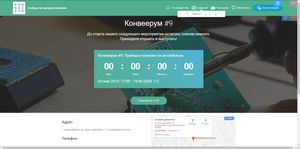
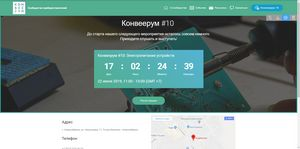
10_2

diff --git a/email.html b/email.html
@@ -62,7 +62,7 @@
     </nav>
 </section>
 
-<section class="engine"><a href="https://mobirise.info/s">free bootstrap theme</a></section><section class="mbr-section form3 cid-rgyApg8B9A mbr-parallax-background" id="form3-p">
+<section class="engine"><a href="https://mobirise.info/e">how to make your own website for free</a></section><section class="mbr-section form3 cid-rgyApg8B9A mbr-parallax-background" id="form3-p">
 
     
 
@@ -80,7 +80,7 @@
         <div class="row py-2 justify-content-center">
             <div class="col-12 col-lg-6  col-md-8 " data-form-type="formoid">
                 <div data-form-alert="" hidden="">Спасибо! До встречи на Конвеерум!</div>
[2 lines of base64/hex data omitted]
                     <div class="mbr-subscribe input-group">
                         <input class="form-control" type="email" name="email" placeholder="Укажите Ваш e-mail" data-form-field="Email" required="" id="email-form3-p">
                         <span class="input-group-btn"><button href="" type="submit" class="btn  btn-secondary display-4">ПОДПИСАТЬСЯ</button></span>

diff --git a/index.html b/index.html
@@ -62,7 +62,7 @@
     </nav>
 </section>
 
-<section class="engine"><a href="https://mobirise.info/f">easy website builder</a></section><section class="countdown2 cid-rgyDTvxJ4Z" id="countdown2-t">
+<section class="engine"><a href="https://mobirise.info/t">amp templates</a></section><section class="countdown2 cid-rgyDTvxJ4Z" id="countdown2-t">
 
     
 
@@ -91,7 +91,7 @@
         </div>
 
         <div class="media-container-row pt-5">
-            <div class="mbr-section-btn align-center"><a class="btn btn-secondary display-4" href="https://leader-id.ru/event/22186/" target="_blank">Регистрация</a></div>
+            <div class="mbr-section-btn align-center"><a class="btn btn-secondary display-4" href="https://leader-id.ru/event/22186/" target="_blank">Регистрация</a> <a class="btn btn-primary display-4" href="mailto:info@konveerum.ru">Хочу выступить</a></div>
         </div>
     </div>
 </section>
@@ -145,7 +145,7 @@
     <div class="container">
         <div class="media-container-row title">
             <div class="col-12 col-md-8">
-                <div class="mbr-section-btn align-center"><a class="btn btn-secondary display-4" href="https://leader-id.ru/event/22186/" target="_blank">Регистрация</a></div>
+                <div class="mbr-section-btn align-center"><a class="btn btn-secondary display-4" href="https://leader-id.ru/event/22186/" target="_blank">Регистрация</a> <a class="btn btn-primary display-4" href="mailto:info@konveerum.ru">Хочу выступить</a></div>
             </div>
         </div>
     </div>

diff --git a/contact.html b/contact.html
@@ -48,7 +48,7 @@
                     <div data-form-alert="" hidden="">Сообщение успешно отправлено!
 Мы свяжемся с Вами в билжайшее время.</div>
             
[2 lines of base64/hex data omitted]
                         <div class="row row-sm-offset">
                             <div class="col-md-4 multi-horizontal" data-for="name">
                                 <div class="form-group">
@@ -81,7 +81,7 @@
     </div>
 </section>
 
-<section class="engine"><a href="https://mobirise.info/z">best free website templates</a></section><section class="menu cid-rgCrtOWBev" once="menu" id="menu1-19">
+<section class="engine"><a href="https://mobirise.info/x">free css templates</a></section><section class="menu cid-rgCrtOWBev" once="menu" id="menu1-19">
 
     
 

diff --git a/about.html b/about.html
@@ -62,7 +62,7 @@
     </nav>
 </section>
 
-<section class="engine"><a href="https://mobirise.info/q">free responsive website templates</a></section><section class="cid-rfk5LG4fva mbr-fullscreen" id="header2-3">
+<section class="engine"><a href="https://mobirise.info/b">how to create a website</a></section><section class="cid-rfk5LG4fva mbr-fullscreen" id="header2-3">
 
     
 

diff --git a/legend.html b/legend.html
@@ -62,7 +62,7 @@
     </nav>
 </section>
 
-<section class="engine"><a href="https://mobirise.info/v">free html templates</a></section><section class="timeline1 cid-rgyI3nNBSg" id="timeline1-x">
+<section class="engine"><a href="https://mobirise.info/h">create your own web page for free</a></section><section class="timeline1 cid-rgyI3nNBSg" id="timeline1-x">
 
     
 
